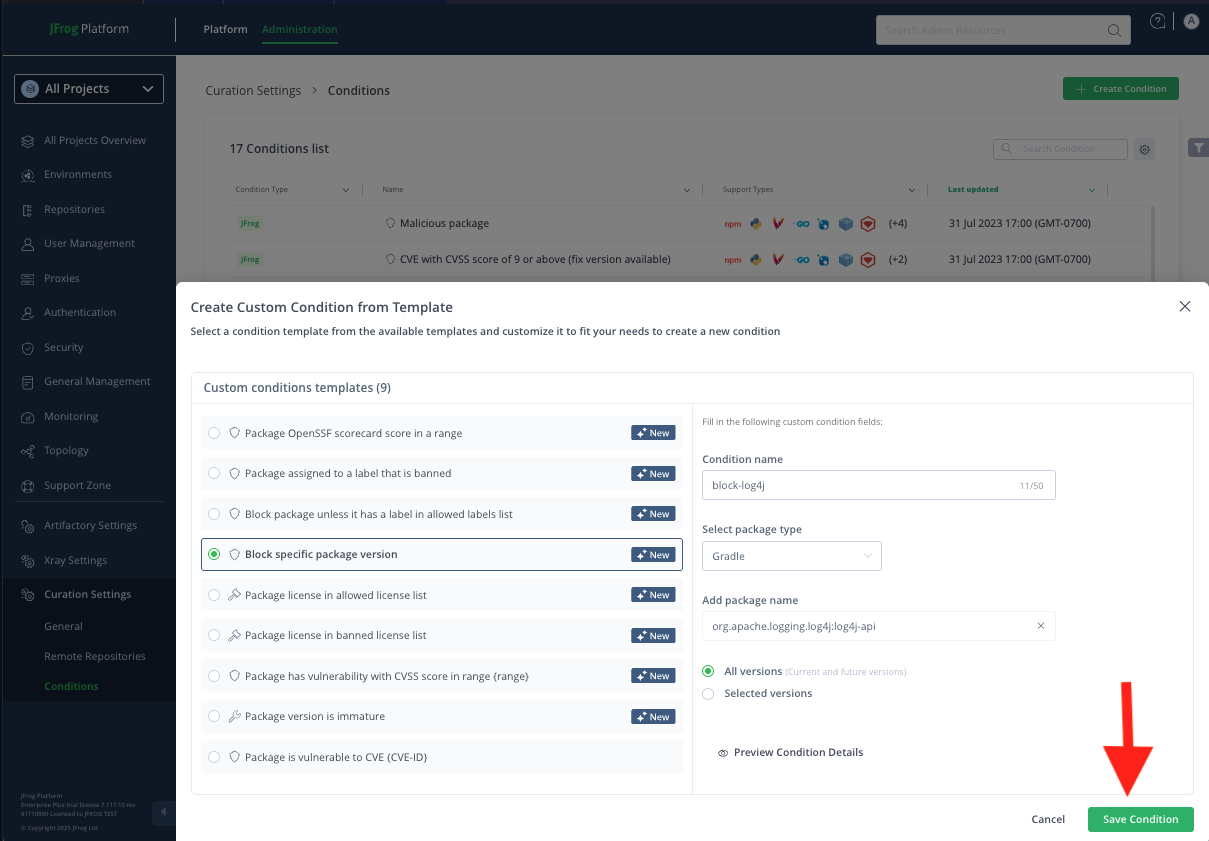
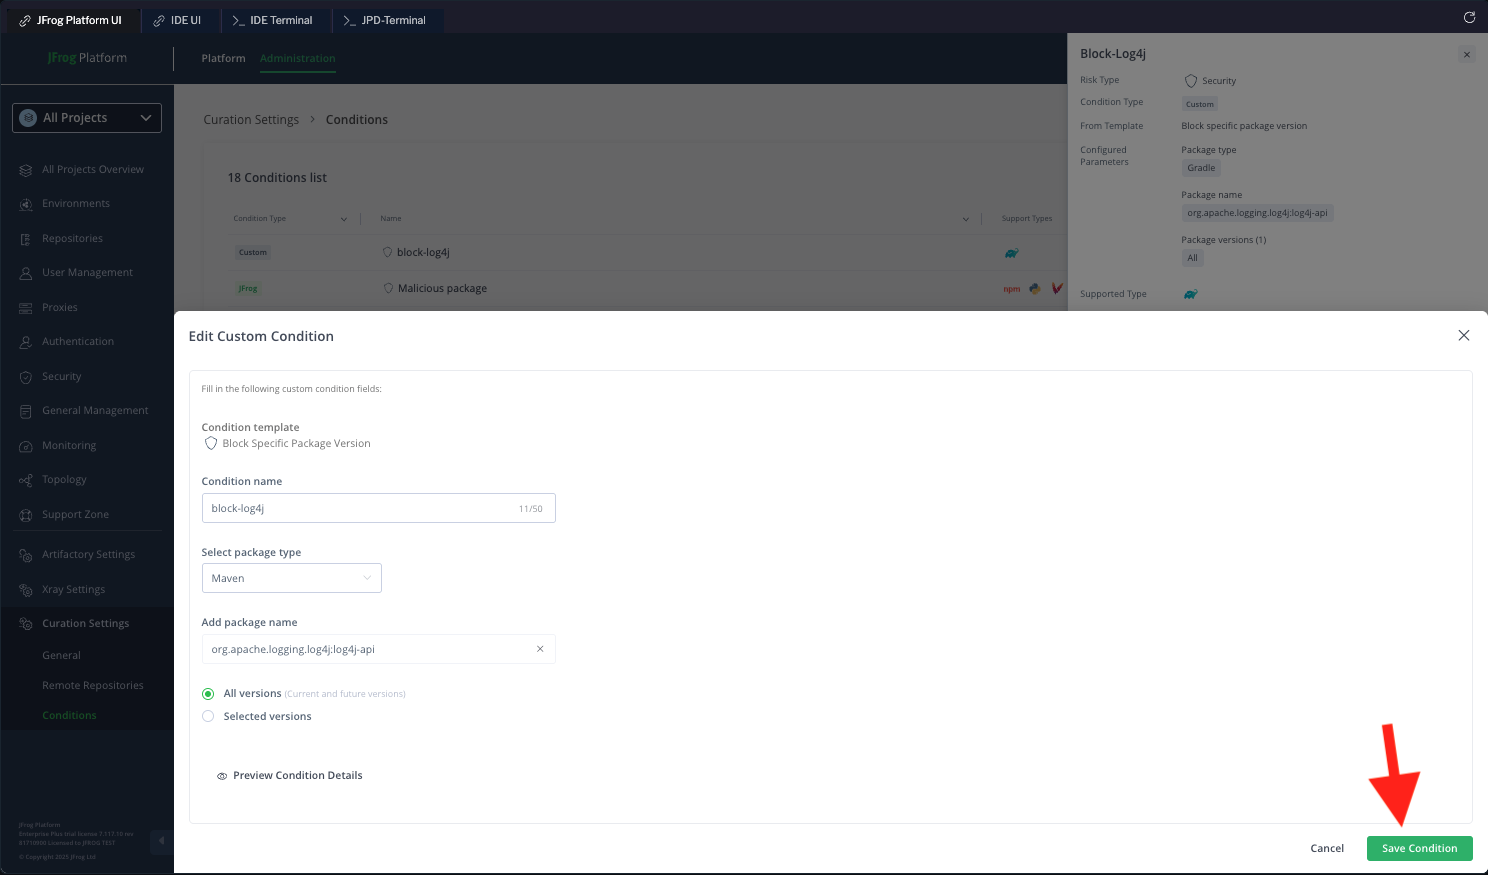
lab-1 with java code

diff --git a/JFTD-114-Compliant_SDLC_Without_Compromise/LAB-1/readme.md b/JFTD-114-Compliant_SDLC_Without_Compromise/LAB-1/readme.md
@@ -1,15 +1,17 @@
 # Lab 1: OSS Filtering using Curated Remote Repo
-This lab walks you through configuring and using JFrog Curation to block unwanted open-source software (OSS) packages from entering your software supply chain. You'll set up a policy to block all packages by default and then create a manual waiver process for developers to request exceptions.
+Welcome to the SwampUp 2025 hands-on lab for JFrog Curation! This lab will guide you through the process of setting up and using Curation to control the open-source software (OSS) that enters your organization's software supply chain.
+
+JFrog Curation is a powerful tool that allows you to establish automated policies to approve or block OSS packages from public repositories based on security vulnerabilities, license compliance, and other custom conditions. This lab will walk you through a common use case: blocking a vulnerable version of a package (log4j) and then managing a developer's request for an exception.
 
 ## Prerequisites
 - Before you start, make sure you have the following ready:
 - JFrog CLI: Installed and configured in your shell's PATH.
 - JFrog Platform Access: You'll need the URL and login credentials for your JFrog instance.
-- `jq` The command-line JSON processor must be installed.
 - Lab Files: You should have the lab scripts checked out locally.
 - JFrog Platform UI credentials
     - username: ``` admin ```
     - Password: ``` Admin1234! ```
+
 ## Setup and Configuration
 First, let's set up the necessary repositories using a script.
 
@@ -27,106 +29,79 @@ Run the setup script to automatically create Gradle repositories in Artifactory.
 This script will create the remote, local, and virtual repositories needed for the lab.
 <img src="./images/lab1-repos-0.png" /> <br/>
 <img src="./images/lab1-repos-1.png" /> <br/>
+<img src="./images/lab1-repos-2.png" /> <br/>
+<img src="./images/lab1-repos-3.png" /> <br/>
 
-## Curation Policy Setup
-Now, let's configure the curation policy in the JFrog Platform UI.
 
-### Enable Curation
-- Next, you need to enable the Curation service for the repositories.
-- Navigate to **Administration** >> **Curation Settings**.
-- Toggle the switch to **Enable Curation**.
+## Curation
+
+### Enabling
+Now, let's enable Curation in the JFrog Platform UI.
+- Navigate to the Administration module, then go to Curation -> General.
+- Toggle the switch to turn Curation On.
 
 <img src="./images/lab1-curation-1.png" /><br/>
 
-- Next, click on to enable Enable repositories
+- Click on Enable repositories.
 
 <img src="./images/lab1-curation-2.png" /><br/>
 
-- From the list of repositories, toggle the remote repositories you created with the `setup-repos.sh` script to enable curation on them.
+- Select the maven package type to enable Curation for all remote repositories of that type.
 
 <img src="./images/lab1-curation-3.png" /><br/>
 
 
-
-
-
-### Create a Curation Condition
-The condition defines the logic for our policy. Here, we'll create a condition to block everything unless it's explicitly allowed.
+### Creating a Curation Condition
+Conditions are the building blocks of Curation policies. Let's create a condition to specifically block vulnerable versions of log4j.
 
 - Navigate to **Administration** >> **Curation Settings** and select the Conditions tab.
 - Click **Create Condition.**
-- Select the Custom conditions templates tab and choose `Block package unless it has a label in allowed labels list`.
-- Fill in the fields:
-    - Condition Name: ` DEFAULT-BLOCK-ALL `
-    - Allowed Label: ` ALLOW-THIS ` (Select from the dropdown)
-- Click **Save Condition**.
 
-<img src="./images/curation-custom-condition.png" /><br/>
+<img src="./images/lab1-condition-0.png" /><br/> 
+
+- Fill in the details to block org.apache.logging.log4j:log4j-api. We will block all versions for this example.
+
+<img src="./images/lab1-condition-1.png" /><br/>
 
 
-### Create a Curation Policy
-Finally, assemble the components into a policy that applies to a specific repository.
+### Creating a Curation Policy
+Policies apply conditions to specific repositories.
 
-- Navigate to **Administration** >> **Curation Settings** and select the General tab.
-- Click **Create policy** and enter the following details:
-    - Policy Name: `curation-blocked-remote`
-    - Scope: Select **Specific remote repositories** and choose the `pypi-remote` repository created by the script.
+- Navigate to Curation -> Policies and create a new policy.
+- Configure the policy to use the block-log4j condition on your remote repository. Set the action to Block and allow for Manually approved waivers.
 
-    <img src="./images/curation-policy-scope.png" /> <br/>
-
-    - Policy Condition: Select `DEFAULT-BLOCK-ALL` from the dropdown.
-
-    <img src="./images/curation-policy-condition.png" /> <br/>
-
-    - Waiver label: `SADMIN-ALLOW`
-    - Justification: `Allow for Swampup Lab`
-
-    <img src="./images/curation-policy-waiver.png" /> <br/>
-
-    - Actions & Notification:
-        - Action: `Choose Block`.
-        - Waiver Request: `Set to Manual approved`.
-        - Owner Groups: `sup-admin (or another appropriate admin group)`.
-        - **Save** the policy.
-
+    <img src="./images/lab1-policy-approve-1.png" /> <br/>
 
 ## Developer: Auditing a Requesting a Waiver
 The developer uses the `jf ca` command to check if their app dependencies violate any Curation policies before attempting to download them.
 
 ```
-cd py-app
+cd java-app
 ```
 
-- Configure the project's repository: In the project directory, configure the JFrog CLI to use the virtual repository you created. For a PyPI project, this would be:
-
-```
-jf pipc --repo-resolve='pypi-remote'
-```
-
-- Run the Curation Audit: Execute the curation-audit command to scan the project.
-
-```
-jf ca --requirements-file=requirements.txt --format=table --threads=100
-```
-
-The output will show that the package is blocked by the 'blocked-pypi-remote' policy. Because the policy is configured to allow manual waivers, the developer is prompted to request one.
+The output will show that the package is blocked by the 'blocked-log4j-policy' policy. Because the policy is configured to allow manual waivers, the developer is prompted to request one.
 
 - Request the Waiver: The developer follows the interactive prompts in the CLI to select the package and provide a justification for the waiver.
 
-
-<img src="./images/developer-waiver-request.png" /><br/>
+<img src="./images/lab1-policy-approve-2.png" /><br/>
 
 
 ## Approver: Reviewing and Approving the Waiver
 The designated approver (a member of the sup-admin group) manages the request in the JFrog Platform.
 
 - The approver receives a notification and navigates to the waiver management interface to see the pending request.
+
+<img src="./images/lab1-policy-approve-3.png" /><br/>
+
 - They can review the package details, the developer's justification, and the policies that are blocking it.
-- Upon approval, the ALLOW-THIS label is automatically applied to the package in the Catalog, making it available for download.
+- Upon approval, the label is automatically applied to the package in the Catalog, making it available for download.
+ 
+<img src="./images/lab1-policy-approve-4.png" /><br/>
 
 After approval, the developer can successfully resolve and download the dependency into their project. 🎉
 
+<img src="./images/lab1-policy-approve-5.png" /><br/>
 
 ## References
-- JFrog CLI: https://docs.jfrog-applications.jfrog.io/jfrog-applications/jfrog-cli/binaries-management-with-jfrog-artifactory/package-managers-integration#building-python-packages
+- JFrog CLI: https://docs.jfrog-applications.jfrog.io/jfrog-applications/jfrog-cli/binaries-management-with-jfrog-artifactory/package-managers-integration
 - Curation supported technologies: https://jfrog.com/help/r/jfrog-security-user-guide/products/curation/supported-technologies
